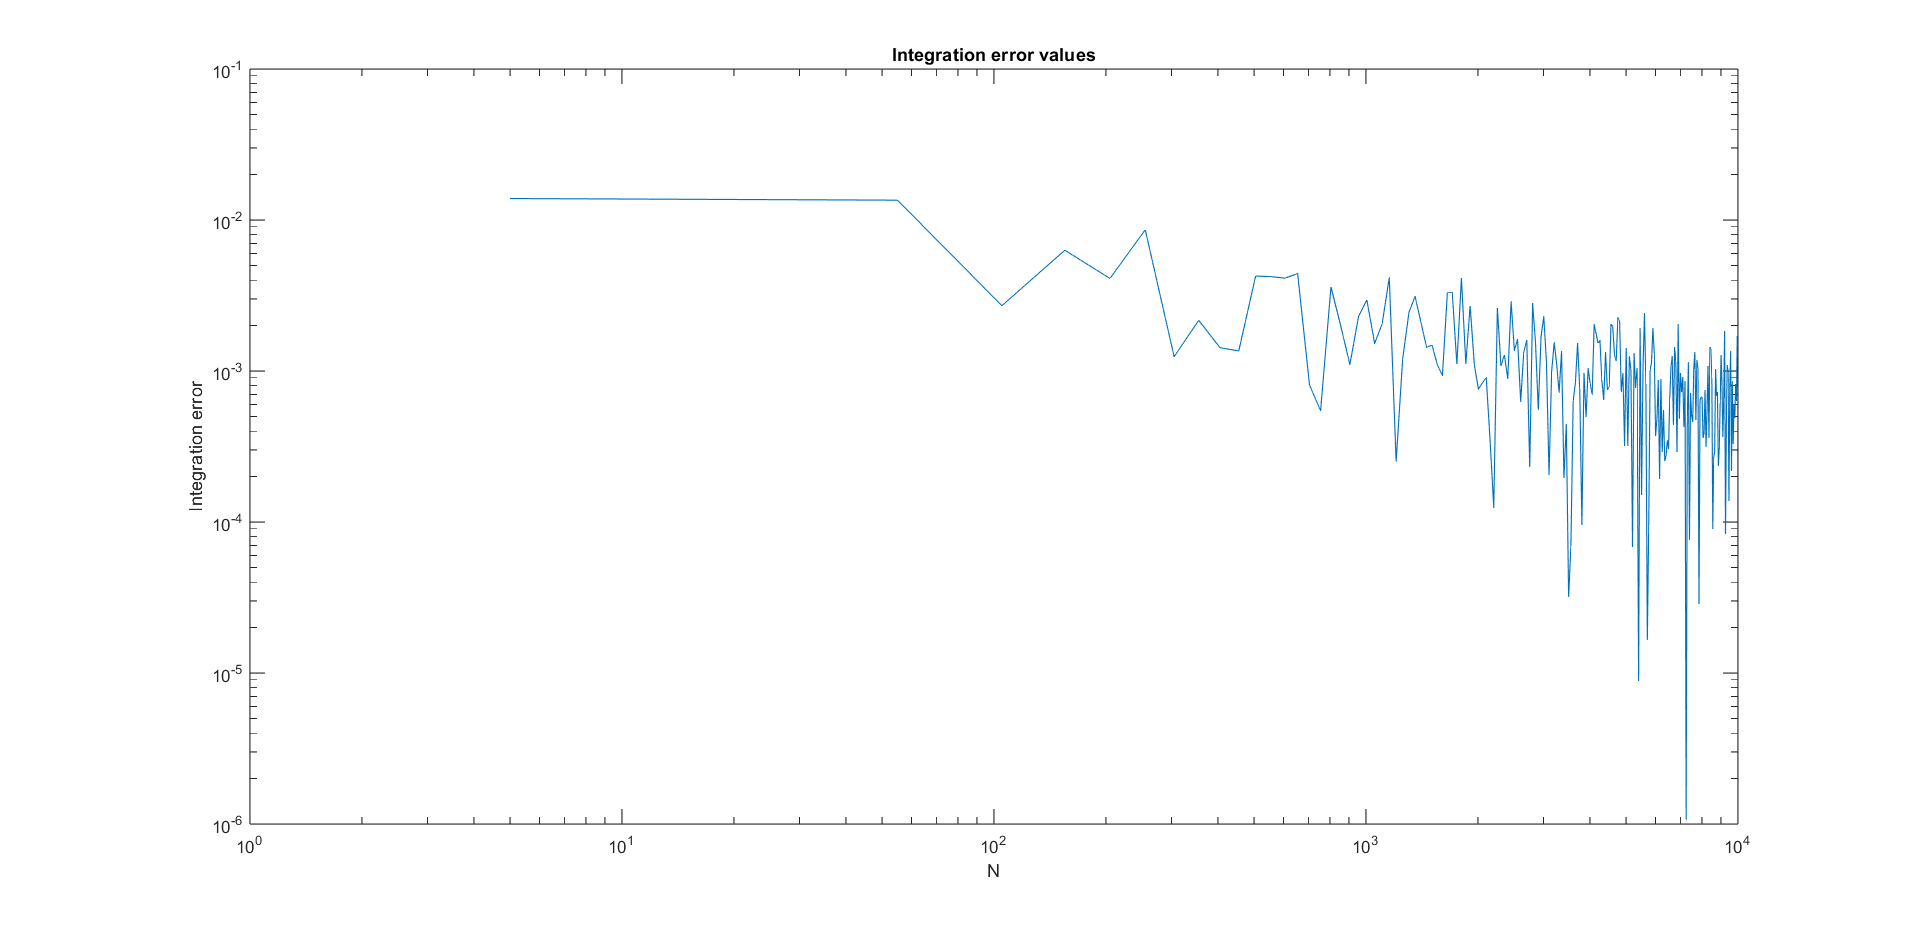
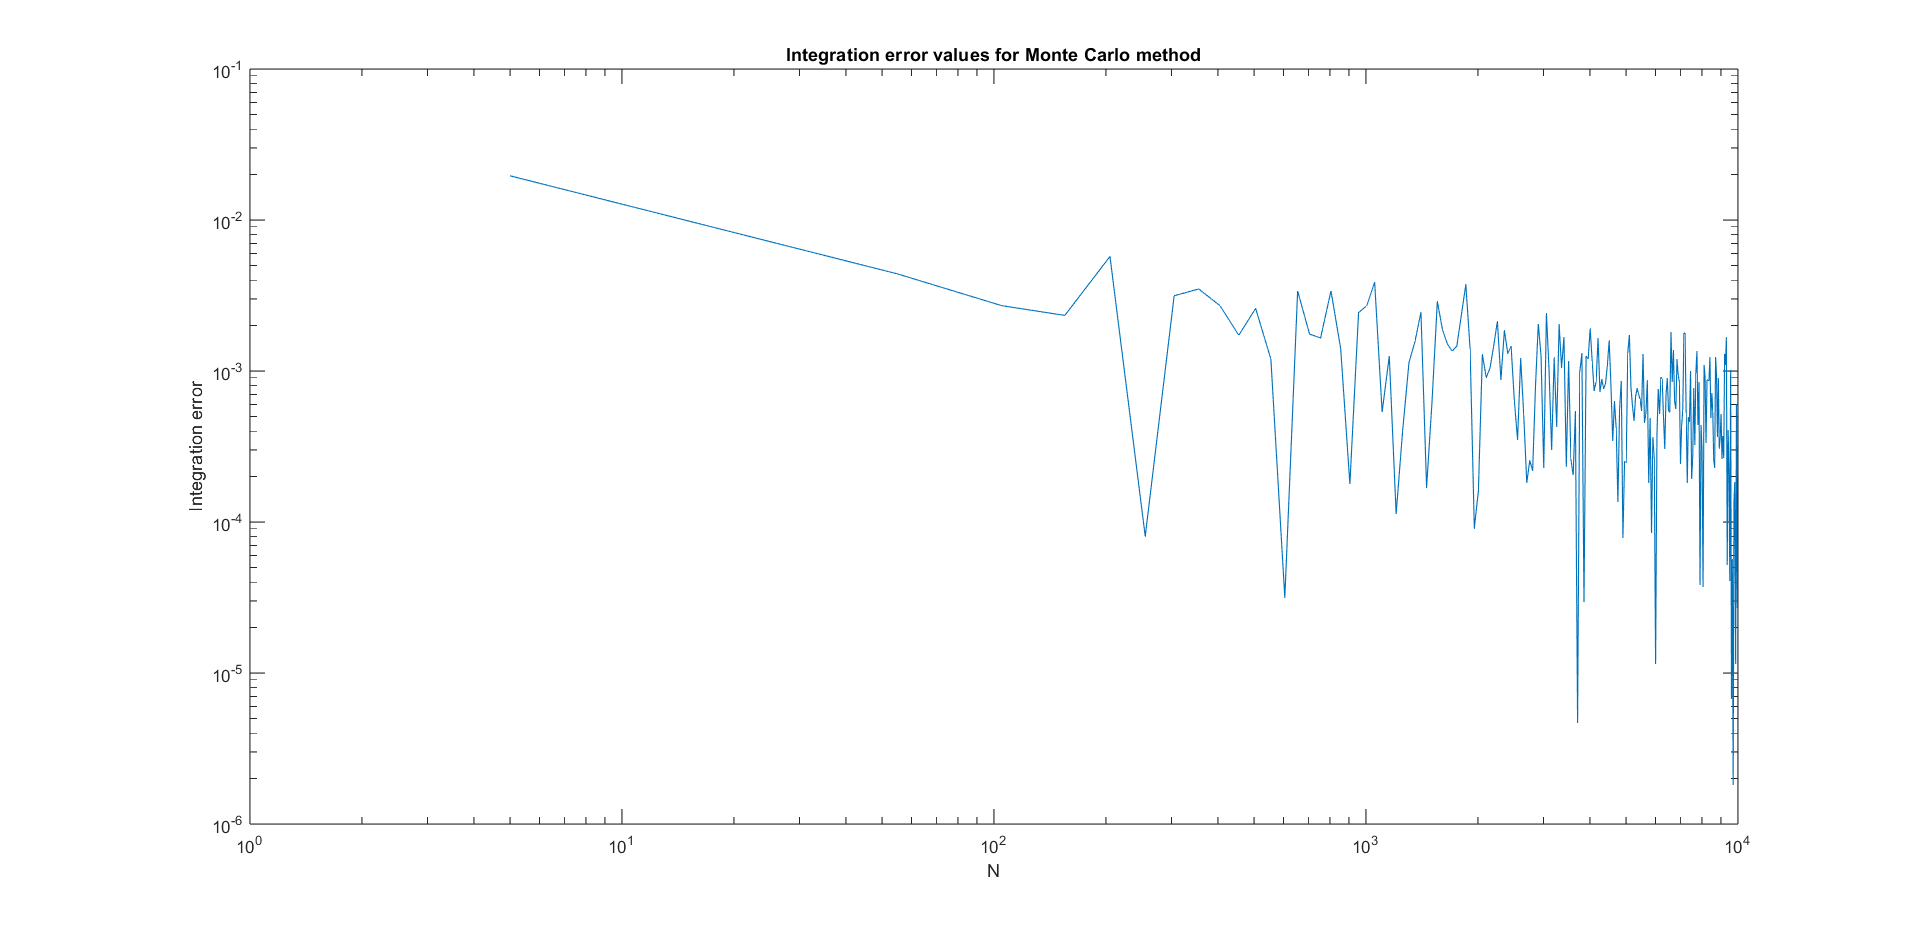
Graphs title fix

diff --git a/lab7/zadanie4.m b/lab7/zadanie4.m
@@ -39,5 +39,5 @@ function [integration_error, Nt, ft_5, xr, yr, yrmax] = zadanie4()
     loglog(Nt, integration_error);
     xlabel('N')
     ylabel('Integration error')
-    title('Integration error values')
+    title('Integration error values for Monte Carlo method')
 end

diff --git a/lab7/zadanie1.m b/lab7/zadanie1.m
@@ -25,5 +25,5 @@ function [integration_error, Nt, ft_5, integral_1000] = zadanie1()
     loglog(Nt, integration_error);
     xlabel('N')
     ylabel('Integration error')
-    title('Integration error values')
+    title('Integration error values for rectangles method')
 end

diff --git a/lab7/zadanie2.m b/lab7/zadanie2.m
@@ -24,5 +24,5 @@ function [integration_error, Nt, ft_5, integral_1000] = zadanie2()
     loglog(Nt, integration_error);
     xlabel('N')
     ylabel('Integration error')
-    title('Integration error values')
+    title('Integration error values for trapezes method')
 end

diff --git a/lab7/zadanie3.m b/lab7/zadanie3.m
@@ -25,5 +25,5 @@ function [integration_error, Nt, ft_5, integral_1000] = zadanie3()
     loglog(Nt, integration_error);
     xlabel('N')
     ylabel('Integration error')
-    title('Integration error values')
+    title('Integration error values for Simpson method')
 end

diff --git a/lab7/script.m b/lab7/script.m
@@ -1,1 +1,1 @@
-[lake_volume, x, y, z, zmin] = zadanie5();
+[integration_error, Nt, ft_5, xr, yr, yrmax] = zadanie4();
